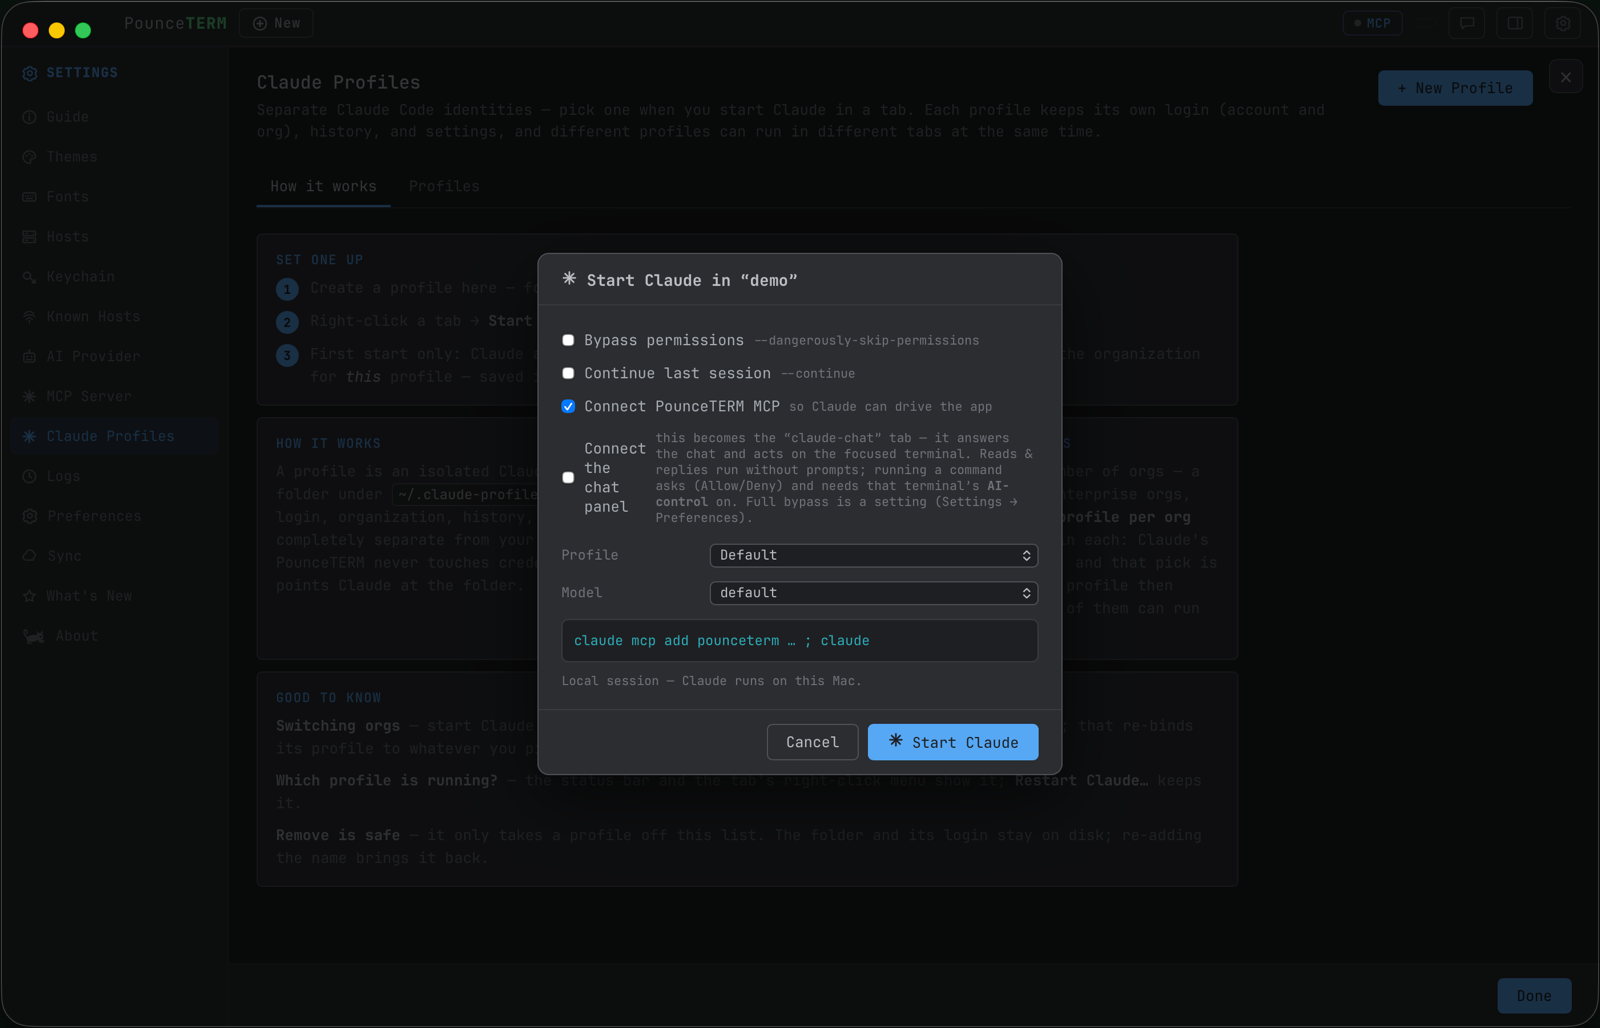
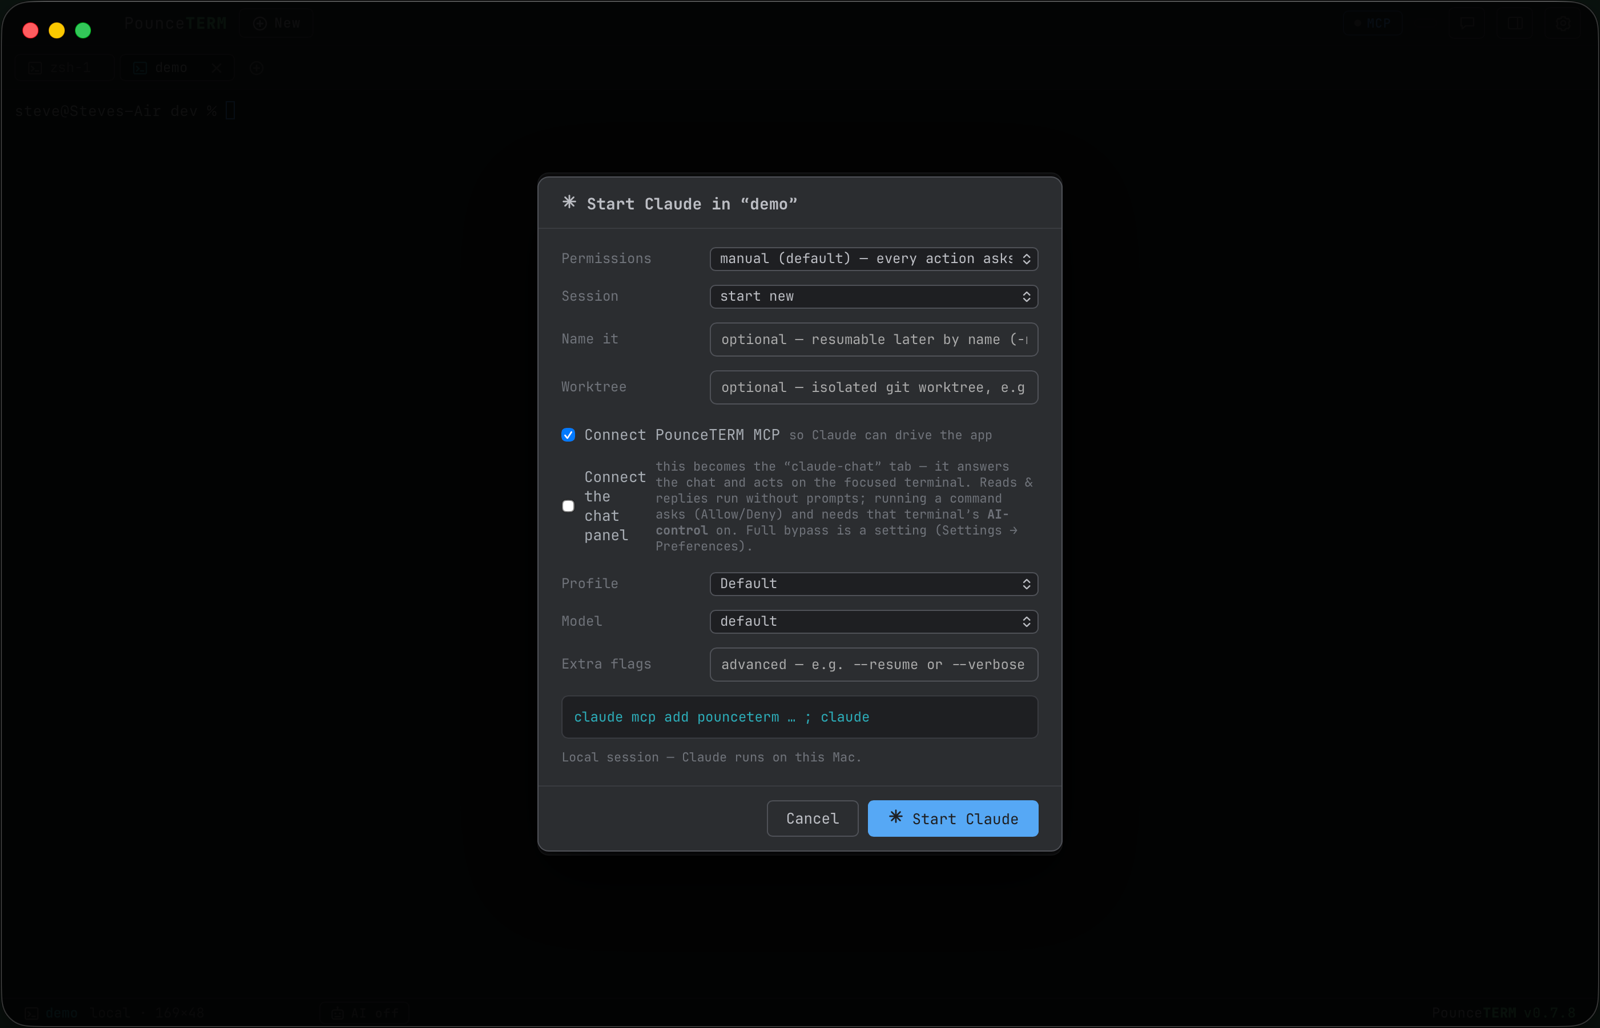
0.7.8 on the site: new Start dialog capture (six permission modes, session + worktree controls) + What's New sync

diff --git a/public/docs.html b/public/docs.html
@@ -40,7 +40,7 @@
       <!-- GEN:articles -->
 <article class="doc" id="start-claude" data-tags="claude start launch mcp bypass permissions">
 <h2>Starting Claude in a tab</h2>
-<p class="wiki-p">Right-click any tab → &quot;Start Claude here…&quot; opens a launch dialog.</p><h3 class="wiki-h">Options</h3><ul class="wiki-ul"><li>Bypass permissions — passes --dangerously-skip-permissions.</li><li>Continue last session — passes --continue.</li><li>Connect PounceTERM MCP — registers PounceTERM's tools first, so the new Claude can drive the app. For an SSH tab this points at the reverse tunnel automatically.</li><li>Connect the chat panel — makes this Claude the backend for the sidebar chat (see &quot;The chat panel&quot;).</li><li>Profile — which Claude identity to use (see &quot;Claude profiles&quot;). Local tabs only.</li><li>Model — default / opus / sonnet / haiku.</li></ul><p class="wiki-p">A live preview shows the exact command before you launch. For an SSH tab the command runs on the remote host (that's where the shell is). Once Claude is detected, the tab badges with a sparkle and the status bar shows &quot;Claude&quot;.</p>
+<p class="wiki-p">Right-click any tab → &quot;Start Claude here…&quot; opens a launch dialog.</p><h3 class="wiki-h">Options</h3><ul class="wiki-ul"><li>Permissions — Claude Code's real permission modes: manual (default — every action asks) · auto mode (runs without routine prompts; a safety classifier reviews each action — needs an eligible account/model) · accept edits (file edits and common filesystem commands run, other commands still ask) · plan mode (read-only planning) · don't ask (auto-DENY anything not pre-approved) · bypass everything (--dangerously-skip-permissions — dangerous).</li><li>Session — start new · continue last in this folder (--continue) · pick from past sessions (--resume opens Claude Code's own session picker right in the terminal).</li><li>Name it — optional session name (-n), so you can resume it later by name.</li><li>Worktree — optional isolated git worktree (--worktree), Claude works on its own branch — the recipe for parallel agents in parallel tabs.</li><li>Connect PounceTERM MCP — registers PounceTERM's tools first, so the new Claude can drive the app. For an SSH tab this points at the reverse tunnel automatically.</li><li>Connect the chat panel — makes this Claude the backend for the sidebar chat (see &quot;The chat panel&quot;).</li><li>Profile — which Claude identity to use (see &quot;Claude profiles&quot;). Local tabs only.</li><li>Model — default / opus / sonnet / haiku.</li><li>Extra flags — advanced free-form flags appended to the command (e.g. --resume or --verbose).</li></ul><p class="wiki-p">A live preview shows the exact command before you launch. For an SSH tab the command runs on the remote host (that's where the shell is). Once Claude is detected, the tab badges with a sparkle and the status bar shows &quot;Claude&quot;.</p>
 <div class="doc-tags"><span>claude</span><span>start</span><span>launch</span><span>mcp</span><span>bypass</span><span>permissions</span></div>
 </article>
 <article class="doc" id="claude-profiles" data-tags="claude profile account org login switch work personal">

diff --git a/public/whatsnew.html b/public/whatsnew.html
@@ -29,8 +29,12 @@
   <p class="sub">Every release, newest first — the same changelog the app shows on launch. Update any time with <code>brew upgrade --cask pounceterm</code>.</p>
   <div style="margin-top:12px">
     <!-- GEN:releases -->
-<section class="wn wn-latest" id="v0-7-7">
-<h2>v0.7.7<span class="d">2026-08-11</span><span class="wn-badge">LATEST</span></h2>
+<section class="wn wn-latest" id="v0-7-8">
+<h2>v0.7.8<span class="d">2026-08-11</span><span class="wn-badge">LATEST</span></h2>
+<ul><li>The full launch panel. Start Claude now exposes Claude Code's real permission modes — manual, AUTO MODE (runs without routine prompts while a safety classifier reviews each action), accept edits, plan, don't ask, and bypass — plus session controls: continue the last session, open Claude's own resume picker right in the terminal, name the session (-n) for later, or launch into an isolated git worktree (--worktree) for parallel agents in parallel tabs. An Extra flags field covers everything else, and the live preview always shows the exact command.</li></ul>
+</section>
+<section class="wn" id="v0-7-7">
+<h2>v0.7.7<span class="d">2026-08-11</span></h2>
 <ul><li>The identity pill. The status bar's Claude badge is now a bordered pill — &quot;Claude · work-enterprise&quot; outlined in the theme's Claude color while running, dimmed between runs — matching the look on pounceterm.com. Which tab is which identity, readable from across the room.</li></ul>
 </section>
 <section class="wn" id="v0-7-6">

diff --git a/public/claude.html b/public/claude.html
@@ -29,7 +29,7 @@
   <p class="sub">Most terminals tolerate agents. PounceTERM was built around them — launching, identifying, gating, watching, and measuring Claude Code is all native.</p>
 
   <h2 class="prompt-h" id="start">Start Claude anywhere</h2>
-  <p>Every tab can become a Claude tab. The dialog offers the model, a <b>Profile</b> (which identity — see below), continue-last-session, permission bypass for the brave, and one-click MCP connect so the new Claude can drive PounceTERM itself. A live preview shows the exact command before anything runs. On an SSH tab, the command runs on the remote host — where your shell actually is.</p>
+  <p>Every tab can become a Claude tab. The dialog offers all six of Claude Code's <b>permission modes</b> (manual, auto, accept edits, plan, don't ask, bypass), <b>session controls</b> (continue, the --resume picker, name it for later), an isolated <b>--worktree</b> launch for parallel agents, a <b>Profile</b> (which identity — see below), the model, extra flags, and one-click MCP connect so the new Claude can drive PounceTERM itself. A live preview shows the exact command before anything runs. On an SSH tab, the command runs on the remote host — where your shell actually is.</p>
   <div class="path" role="img" aria-label="How to open it: right-click any tab, choose Start Claude here, and this dialog appears">
     <span class="path-chip">right-click any tab</span>
     <span class="path-arrow">──▶</span>
